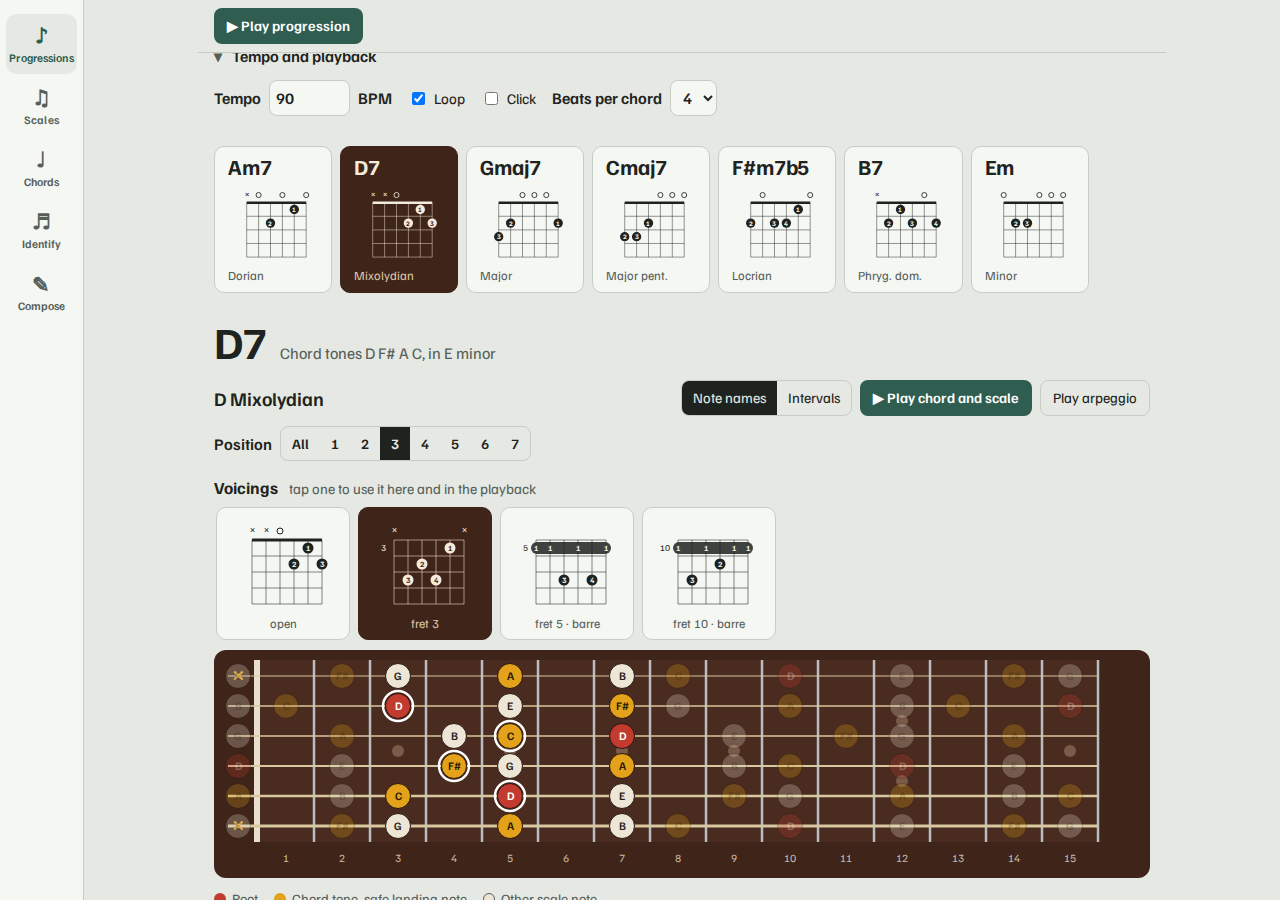
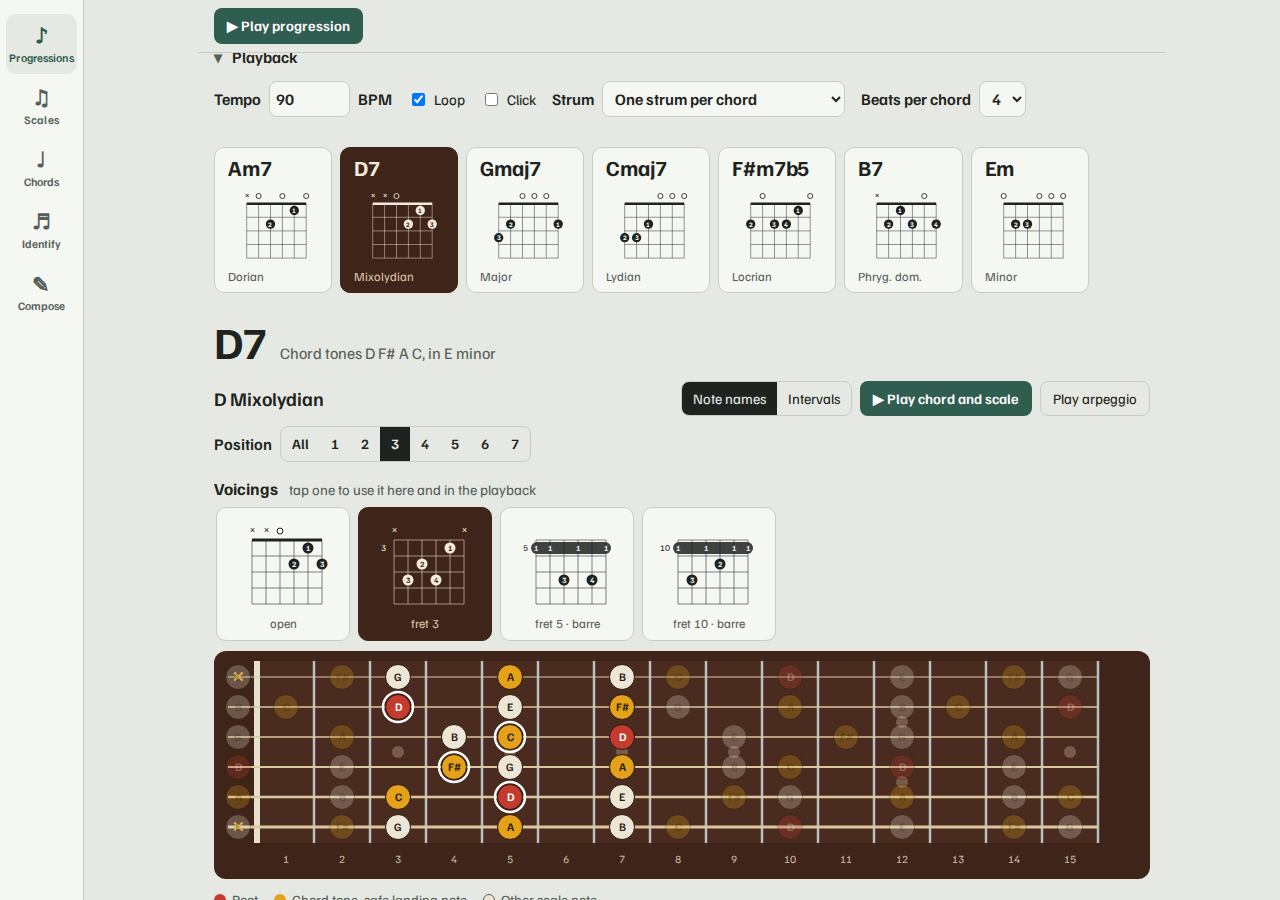
Compose: settings tray (Playback, Generator, Share), tab first, segmented short choices (2.5.0)

diff --git a/site/view-compose.js b/site/view-compose.js
@@ -2,8 +2,8 @@ import { esc, parseChord } from './music.js';
 import { getInstrument, getSetup, applySetup, onInstrumentChange } from './instrument.js';
 import { encodeTabLink, decodeTabLink } from './tab-share.js';
 import { tabOf } from './share.js';
-import { playbackFold, openWhereRoom, bindStrum } from './playback-ui.js';
-import { getStrum } from './strum-patterns.js';
+import { playbackControls, bindStrum, bindTray, segmentSelect } from './playback-ui.js';
+import { getStrum, strumById } from './strum-patterns.js';
 import { expandChart } from './chart.js';
 import { chordScales, scalesInKey, pickId } from './scalefit.js';
 import { loadVoicings, getVoicings, voicingDiagram, voicingLabel } from './voicings.js';
@@ -36,19 +36,21 @@ export function mount(root){
       <button type="button" class="share" id="tb-undo" aria-label="Undo"><span aria-hidden="true">\u21B6</span><span class="lbl"> Undo</span></button>
       <button type="button" class="share" id="tb-redo" aria-label="Redo"><span aria-hidden="true">\u21B7</span><span class="lbl"> Redo</span></button>
     </div>
-    <p class="status" id="tb-genmsg" role="status" aria-live="polite"></p>
-    <div class="sharebar" role="group" aria-label="Share and export">
-      <label class="keylab">Title <input id="tb-title" type="text" size="22" maxlength="80" autocomplete="off"></label>
-      <button type="button" class="share" id="tb-share" title="A link that opens this tab (notes, chords, settings and seed) for someone else">Copy link</button>
-      <button type="button" class="share" id="tb-pdf" title="Print the tab with its chord boxes - choose Save as PDF in the print dialog">Export PDF</button>
-      <button type="button" class="share" id="tb-copy" title="The tab as plain text, to paste into notes or a message">Copy as text</button>
+    <div class="traybar" role="group" aria-label="Settings">
+      <button type="button" class="traybtn" id="tb-t-play" aria-expanded="false" aria-controls="tb-p-play"><b>Playback</b><span id="tb-s-play"></span></button>
+      <button type="button" class="traybtn" id="tb-t-gen" aria-expanded="false" aria-controls="tb-p-gen"><b>Generator</b><span id="tb-s-gen"></span></button>
+      <button type="button" class="traybtn" id="tb-t-share" aria-expanded="false" aria-controls="tb-p-share"><b>Share</b><span>link, PDF, text</span></button>
       <span class="vometa" id="tb-msg" role="status" aria-live="polite"></span>
     </div>
-    ${playbackFold('tb', `<label class="chk"><input type="checkbox" id="tb-backing"> Play the bar chords</label>
+    <p class="status" id="tb-genmsg" role="status" aria-live="polite"></p>
+    <section class="tray" id="tb-p-play" aria-label="Playback" hidden>
+      ${playbackControls('tb', `<label class="chk"><input type="checkbox" id="tb-backing"> Play the bar chords</label>
         <label class="keylab" title="Plays straight eighths long-short. Notes written as triplets are not changed.">Swing <select id="tb-swing">${SWINGS.map(x => `<option value="${x.id}">${x.name}</option>`).join('')}</select></label>`)}
-    <details class="fold" id="tb-gen"><summary>Solo generator settings</summary>
+    </section>
+    <section class="tray" id="tb-p-gen" aria-label="Solo generator settings" hidden>
       <p class="hint">Name the chords in the tab (or load a progression), then press Generate above. It replaces the notes - Undo brings yours back.</p>
       <div class="row">
+        <label class="keylab" title="The key the solo is written in. Auto works it out from the chords; pick a key to set it yourself - and to load a progression in that key.">Key <select id="tb-key"></select></label>
         <label class="keylab">Load <select id="tb-prog" aria-label="Load a progression"></select></label>
         <label class="keylab" title="How many times to play the progression: Auto repeats it until there are at least 8 bars">Repeat <select id="tb-repeat"><option value="auto">Auto</option>${[1, 2, 3, 4, 6, 8].map(n => `<option value="${n}">\u00d7${n}</option>`).join('')}</select></label>
         <button type="button" class="share" id="tb-useprog">Load chords</button>
@@ -60,30 +62,37 @@ export function mount(root){
       <div class="row">
         <label class="keylab">Style <select id="tb-style">${STYLES.map(x => `<option value="${x.id}">${x.name}</option>`).join('')}</select></label>
         <label class="keylab">Density <select id="tb-density">${DENSITIES.map(x => `<option value="${x.id}">${x.name}</option>`).join('')}</select></label>
-        <label class="keylab" title="How the solo develops over the song: higher and busier towards a peak">Evolve <select id="tb-evolve">${EVOLVES.map(x => `<option value="${x.id}">${x.name}</option>`).join('')}</select></label>
-        <label class="keylab">Feel <select id="tb-feel">${FEELS.map(x => `<option value="${x.id}">${x.name}</option>`).join('')}</select></label>
-        <label class="keylab" title="How much the line leans on chord tones. Real jazz solos land on a chord tone on only about half of their strong beats; the textbook rule would be nearly all of them.">Chord tones <select id="tb-tension">${TENSIONS.map(x => `<option value="${x.id}">${x.name}</option>`).join('')}</select></label>
-        <label class="keylab" title="Hammer-ons, pull-offs, slides, bends and vibrato">Techniques <select id="tb-gentech"><option value="off">Off</option><option value="some">Some</option><option value="lots">Lots</option></select></label>
-        <label class="keylab" title="The key the solo is written in. Auto works it out from the chords; pick a key to set it yourself - and to load a progression in that key.">Key <select id="tb-key"></select></label>
-        <label class="keylab">Seed <input id="tb-seed" type="number" min="1" max="999999" step="1" inputmode="numeric"></label>
       </div>
+      <details class="fold" id="tb-more"><summary>More generator settings</summary>
+        <div class="row">
+          <label class="keylab" title="How the solo develops over the song: higher and busier towards a peak">Evolve <select id="tb-evolve">${EVOLVES.map(x => `<option value="${x.id}">${x.name}</option>`).join('')}</select></label>
+          <label class="keylab">Feel <select id="tb-feel">${FEELS.map(x => `<option value="${x.id}">${x.name}</option>`).join('')}</select></label>
+          <label class="keylab" title="How much the line leans on chord tones. Real jazz solos land on a chord tone on only about half of their strong beats; the textbook rule would be nearly all of them.">Chord tones <select id="tb-tension">${TENSIONS.map(x => `<option value="${x.id}">${x.name}</option>`).join('')}</select></label>
+          <label class="keylab" title="Hammer-ons, pull-offs, slides, bends and vibrato">Techniques <select id="tb-gentech"><option value="off">Off</option><option value="some">Some</option><option value="lots">Lots</option></select></label>
+          <label class="keylab">Seed <input id="tb-seed" type="number" min="1" max="999999" step="1" inputmode="numeric"></label>
+        </div>
+        <div class="row">
+          <label class="chk"><input type="checkbox" id="tb-autoplay"> Play it straight after generating</label>
+        </div>
+      </details>
+    </section>
+    <section class="tray" id="tb-p-share" aria-label="Share and export" hidden>
       <div class="row">
-        <label class="chk"><input type="checkbox" id="tb-autoplay"> Play it straight after generating</label>
+        <label class="keylab">Title <input id="tb-title" type="text" size="22" maxlength="80" autocomplete="off"></label>
+        <button type="button" class="share" id="tb-share" title="A link that opens this tab (notes, chords, settings and seed) for someone else">Copy link</button>
+        <button type="button" class="share" id="tb-pdf" title="Print the tab with its chord boxes - choose Save as PDF in the print dialog">Export PDF</button>
+        <button type="button" class="share" id="tb-copy" title="The tab as plain text, to paste into notes or a message">Copy as text</button>
       </div>
-    </details>
+    </section>
 
-    <div class="row">
+    <div class="edittools" role="group" aria-label="Editing">
       <label class="keylab">Length <div class="seg" id="tb-len" role="group" aria-label="Note length">${LENGTH_NAMES.map((n, i) => `<button type="button" data-len="${i}" aria-pressed="false">${n}</button>`).join('')}</div></label>
       <label class="chk" title="Three in the time of two (1/16, 1/8, 1/4 and 1/2 notes)"><input type="checkbox" id="tb-trip"> Triplet</label>
-    </div>
-    <div class="row">
       <label class="keylab">Technique <div class="seg" id="tb-tech" role="group" aria-label="Technique of the note at the cursor">
         <button type="button" data-tech="h" aria-pressed="false" title="Hammer-on or pull-off into the next note on this string (h)">Hammer / pull</button>
         <button type="button" data-tech="s" aria-pressed="false" title="Slide into the next note on this string (s)">Slide</button>
         <button type="button" data-tech="b" aria-pressed="false" title="Bend up: tap again for a bigger bend (b)">Bend</button>
         <button type="button" data-tech="v" aria-pressed="false" title="Vibrato (v)">Vibrato</button></div></label>
-    </div>
-    <div class="row">
       <label class="keylab">Chord at bar <span id="tb-barno">1</span>, beat <span id="tb-beat">1</span> <input id="tb-chord" type="text" size="7" maxlength="16" autocomplete="off" autocapitalize="off" spellcheck="false" placeholder="Am7"></label>
       <button type="button" class="share" id="tb-addbar">Add bar</button>
       <button type="button" class="share" id="tb-delbar">Delete bar</button>
@@ -245,6 +254,7 @@ export function mount(root){
     undoBtn.disabled = !hist.canUndo; redoBtn.disabled = !hist.canRedo;
     lenSeg.querySelectorAll('button').forEach(b => b.setAttribute('aria-pressed', String(+b.dataset.len === opts.unit)));
     if (document.activeElement !== bpmIn) bpmIn.value = String(tab().bpm);
+    updateSummaries();
     if (document.activeElement !== titleIn) titleIn.value = tab().title;
     barNo.textContent = String(cursor.bar + 1);
     $('#tb-beat').textContent = String(Math.round((1 + cursor.at / BEAT) * 100) / 100);
@@ -466,8 +476,8 @@ export function mount(root){
   bindStrum(root, 'tb');
   backingCb.checked = opts.backing; metroCb.checked = opts.metro; loopCb.checked = opts.loop;
   backingCb.onchange = () => { opts.backing = backingCb.checked; persist(); };
-  metroCb.onchange = () => { opts.metro = metroCb.checked; persist(); };
-  loopCb.onchange = () => { opts.loop = loopCb.checked; persist(); };
+  metroCb.onchange = () => { opts.metro = metroCb.checked; persist(); updateSummaries(); };
+  loopCb.onchange = () => { opts.loop = loopCb.checked; persist(); updateSummaries(); };
   // --- solo generator ---
   const progSel = $('#tb-prog'), styleSel = $('#tb-style'), densSel = $('#tb-density'), keySel = $('#tb-key'), seedIn = $('#tb-seed'), genMsg = $('#tb-genmsg');
   progSel.innerHTML = libraryOptions(esc);
@@ -475,7 +485,7 @@ export function mount(root){
   for (const mode of /** @type {('major'|'minor')[]} */ (['major', 'minor'])) for (let t = 0; t < 12; t++) keyHtml += `<option value="${t}:${mode}">${esc(keyName({ t, mode }))}</option>`;
   keySel.innerHTML = `<option value="auto">Auto (from the chords)</option>${keyHtml}`;
   const feelSel = $('#tb-feel'), swingSel = $('#tb-swing');
-  const evSel = $('#tb-evolve'); evSel.value = opts.evolve; evSel.onchange = () => { opts.evolve = evSel.value; persist(); };
+  const evSel = $('#tb-evolve'); evSel.value = opts.evolve; evSel.onchange = () => { opts.evolve = evSel.value; persist(); updateSummaries(); };
   const tnSel = $('#tb-tension'); tnSel.value = opts.tension; tnSel.onchange = () => { opts.tension = tnSel.value; persist(); };
   const gtSel = $('#tb-gentech'); gtSel.value = opts.tech; gtSel.onchange = () => { opts.tech = gtSel.value; persist(); };
   feelSel.value = opts.feel; swingSel.value = opts.swing;
@@ -483,7 +493,7 @@ export function mount(root){
   swingSel.onchange = () => { opts.swing = swingSel.value; persist(); };
   styleSel.value = opts.style; densSel.value = opts.density; keySel.value = opts.key; seedIn.value = String(opts.seed);
   styleSel.onchange = () => { opts.style = styleSel.value; persist(); render(); };
-  densSel.onchange = () => { opts.density = densSel.value; persist(); };
+  densSel.onchange = () => { opts.density = densSel.value; persist(); updateSummaries(); };
   keySel.onchange = () => { opts.key = keySel.value; persist(); render(); };
   seedIn.onchange = () => { const v = Math.round(+seedIn.value); opts.seed = v >= 1 && v <= 999999 ? v : opts.seed; seedIn.value = String(opts.seed); persist(); };
   const templateBarCount = tpl => templateBars(tpl).length;
@@ -532,8 +542,19 @@ export function mount(root){
   }
   $('#tb-gen-go').onclick = generate;
   $('#tb-gen-new').onclick = () => { opts.seed = 1 + Math.floor(Math.random() * 999999); seedIn.value = String(opts.seed); persist(); generate(); };
-  $('#tb-gen').open = matchMedia('(min-width:760px)').matches;
-  openWhereRoom($('#tb-opts'));
+  // The settings tray: panels closed until wanted, each button saying what is set; short choices as buttons
+  bindTray(root, 'fw-tray-compose', [{ button: '#tb-t-play', panel: '#tb-p-play' }, { button: '#tb-t-gen', panel: '#tb-p-gen' }, { button: '#tb-t-share', panel: '#tb-p-share' }]);
+  for (const id of ['#tb-swing', '#tb-density', '#tb-tension', '#tb-gentech']) segmentSelect(/** @type {HTMLSelectElement} */ ($(id)));
+  const more = /** @type {HTMLDetailsElement} */ ($('#tb-more'));
+  try { more.open = localStorage.getItem('fw-tray-more') === '1'; } catch (e) { /* closed */ }
+  more.addEventListener('toggle', () => { try { localStorage.setItem('fw-tray-more', more.open ? '1' : '0'); } catch (e) { /* storage unavailable */ } });
+  $('#tb-strum').addEventListener('change', updateSummaries);
+  function updateSummaries() {
+    const name = (/** @type {{id:string, name:string}[]} */ list, /** @type {string} */ id) => list.find(x => x.id === id)?.name ?? id;
+    $('#tb-s-play').textContent = [`${tab().bpm} BPM`, opts.loop ? 'Loop' : '', opts.metro ? 'Click' : '', getStrum() === 'single' ? '' : strumById(getStrum()).name.replace(/ \(.*/, '')].filter(Boolean).join(' \u00b7 ');
+    $('#tb-s-gen').textContent = [name(STYLES, opts.style), name(DENSITIES, opts.density), name(EVOLVES, opts.evolve)].join(' \u00b7 ');
+  }
+  updateSummaries();
 
   root.addEventListener('fw-shown', () => { planSig = ''; render(); });
   let resizeTimer = /** @type {any} */ (0);

diff --git a/site/playback-ui.js b/site/playback-ui.js
@@ -1,22 +1,32 @@
 import { STRUMS, getStrum, setStrum } from './strum-patterns.js';
-// The "Tempo and playback" controls shared by the pages that play things (Progressions, Compose), so they look and
+// The "Playback" controls shared by the pages that play things (Progressions, Compose), so they look and
 // read the same everywhere: the same fold, the same first three controls in the same order (Tempo, Loop, Click),
 // then anything specific to the page. Element ids are `<prefix>-bpm`, `<prefix>-loop`, `<prefix>-metro`.
 
 /**
+ * The controls themselves, without a fold around them.
  * @param {string} prefix id prefix of the page ("pr", "tb")
- * @param {string} [extras] HTML for the page's own controls, shown after Click
+ * @param {string} [extras] HTML for the page's own controls, shown after Strum
  * @returns {string}
  */
-export function playbackFold(prefix, extras = '') {
-  return `<details class="fold" id="${prefix}-opts"><summary>Tempo and playback</summary>
-      <div class="transport">
+export function playbackControls(prefix, extras = '') {
+  return `<div class="transport">
         <label class="keylab">Tempo <input id="${prefix}-bpm" type="number" min="40" max="220" step="1" inputmode="numeric"> BPM</label>
         <label class="chk"><input type="checkbox" id="${prefix}-loop"> Loop</label>
         <label class="chk"><input type="checkbox" id="${prefix}-metro"> Click</label>
         <label class="keylab">Strum <select id="${prefix}-strum" title="How the backing chords are played">${STRUMS.map(x => `<option value="${x.id}">${x.name}</option>`).join('')}</select></label>
         ${extras}
-      </div>
+      </div>`;
+}
+
+/**
+ * @param {string} prefix id prefix of the page ("pr", "tb")
+ * @param {string} [extras] HTML for the page's own controls, shown after Strum
+ * @returns {string}
+ */
+export function playbackFold(prefix, extras = '') {
+  return `<details class="fold" id="${prefix}-opts"><summary>Playback</summary>
+      ${playbackControls(prefix, extras)}
     </details>`;
 }
 
@@ -28,4 +38,50 @@ export function bindStrum(root, prefix) {
   const sel = /** @type {HTMLSelectElement} */ (root.querySelector(`#${prefix}-strum`));
   sel.value = getStrum();
   sel.onchange = () => setStrum(sel.value);
+}
+
+/**
+ * Panels that open from a row of buttons (a settings tray): each button shows a one-line summary of what is set, toggles its own panel
+ * (aria-expanded), and the panels that were left open are remembered. Escape inside a panel closes it and returns to its button.
+ * @param {ParentNode} root @param {string} storeKey @param {{button:string, panel:string}[]} items selectors
+ * @returns {{open:(i:number, on:boolean) => void}}
+ */
+export function bindTray(root, storeKey, items) {
+  /** @type {any[]} */
+  let saved = [];
+  try { saved = JSON.parse(localStorage.getItem(storeKey) || '[]'); } catch (e) { /* none */ }
+  const pairs = items.map(it => ({ btn: /** @type {HTMLButtonElement} */ (root.querySelector(it.button)), panel: /** @type {HTMLElement} */ (root.querySelector(it.panel)) }));
+  const open = (/** @type {number} */ i, /** @type {boolean} */ on) => {
+    pairs[i].panel.hidden = !on; pairs[i].btn.setAttribute('aria-expanded', String(on));
+    try { localStorage.setItem(storeKey, JSON.stringify(pairs.map(p => !p.panel.hidden))); } catch (e) { /* storage unavailable */ }
+  };
+  pairs.forEach((p, i) => {
+    open(i, saved[i] === true);
+    p.btn.onclick = () => open(i, !!p.panel.hidden);
+    p.panel.addEventListener('keydown', e => { if (e.key === 'Escape') { open(i, false); p.btn.focus(); } });
+  });
+  return { open };
+}
+
+/**
+ * Show a short <select> as a row of buttons, one per option. The select stays in the page (hidden from sight and from assistive technology) as
+ * the one source of truth: setting its value from code, or choosing through it, updates the buttons.
+ * @param {HTMLSelectElement} sel
+ */
+export function segmentSelect(sel) {
+  const group = document.createElement('div');
+  group.className = 'seg'; group.setAttribute('role', 'group');
+  group.setAttribute('aria-label', sel.closest('label')?.textContent?.replace(sel.textContent || '', '').trim() || sel.getAttribute('aria-label') || sel.id);
+  const buttons = [...sel.options].map(o => {
+    const b = document.createElement('button');
+    b.type = 'button'; b.textContent = o.textContent; b.dataset.value = o.value;
+    b.onclick = () => { if (sel.value !== o.value) { sel.value = o.value; sel.dispatchEvent(new Event('change', { bubbles: true })); } };
+    group.append(b); return b;
+  });
+  const sync = () => buttons.forEach(b => b.setAttribute('aria-pressed', String(b.dataset.value === sel.value)));
+  const own = /** @type {PropertyDescriptor} */ (Object.getOwnPropertyDescriptor(HTMLSelectElement.prototype, 'value'));
+  Object.defineProperty(sel, 'value', { get() { return own.get?.call(sel); }, set(v) { own.set?.call(sel, v); sync(); } });
+  sel.addEventListener('change', sync);
+  sel.classList.add('sr-only'); sel.tabIndex = -1; sel.setAttribute('aria-hidden', 'true');
+  sel.after(group); sync();
 }

diff --git a/site/styles.css b/site/styles.css
@@ -173,6 +173,25 @@ h3{font-size:1.05rem;margin:30px 0 6px}
 [hidden]{display:none!important}
 
 /* ---- Tab editor ---- */
+.sr-only{position:absolute;width:1px;height:1px;margin:-1px;padding:0;overflow:hidden;clip:rect(0 0 0 0);white-space:nowrap;border:0}
+/* Settings tray: a row of buttons that each say what is set and open their own panel */
+.traybar{display:flex;flex-wrap:wrap;align-items:center;gap:8px;margin:8px 0 4px}
+.traybtn{font:inherit;display:inline-flex;flex-direction:column;align-items:flex-start;gap:1px;text-align:left;cursor:pointer;color:var(--ink);
+  background:var(--panel);border:1.5px solid var(--line);border-radius:10px;padding:6px 12px;min-width:0;max-width:100%}
+.traybtn b{font-size:.95rem}
+.traybtn b::after{content:"\25BE";margin-left:.4em;color:var(--muted)}
+.traybtn[aria-expanded="true"] b::after{content:"\25B4"}
+.traybtn span{font-size:.78rem;color:var(--muted);overflow:hidden;text-overflow:ellipsis;white-space:nowrap;max-width:100%}
+.traybtn:hover,.traybtn[aria-expanded="true"]{border-color:var(--accent)}
+.tray{background:var(--panel);border:1px solid var(--line);border-radius:12px;padding:4px 14px 14px;margin:6px 0 10px}
+.tray[hidden]{display:none}
+.tray .transport{margin:8px 0 0}
+.tray .fold{margin:10px 0 0}
+.tray .hint{margin:8px 0 0}
+.edittools{display:flex;flex-wrap:wrap;gap:8px 16px;align-items:center;margin:10px 0 6px}
+.edittools .keylab{flex-wrap:wrap}
+.edittools .seg{max-width:100%;overflow-x:auto}
+@media (max-width:520px){ .traybtn{flex:1 1 0;padding:6px 9px} .traybtn span{font-size:.72rem} }
 .sharebar{display:flex;flex-wrap:wrap;align-items:center;gap:8px 14px;margin:6px 0 4px}
 .status{margin:2px 0 4px;color:var(--muted);font-size:.9rem}
 .status:empty{display:none}

diff --git a/site/view-progressions.js b/site/view-progressions.js
@@ -70,7 +70,7 @@ export function mount(root){
   function save(){try{localStorage.setItem(STORE_KEY,JSON.stringify({text:state.text,key:state.key,labels:state.labels,pos:state.pos,vo:state.vo,bpm:state.bpm,beats:state.beats,loop:state.loop,metro:state.metro}));}catch(e){} syncUrl();}
 
   prog.value=state.text;
-  // Tempo and playback options start folded on phones, open where there is room.
+  // Playback options start folded on phones, open where there is room.
   openWhereRoom(root.querySelector('#pr-opts'));
 
   // One menu of progressions (common ones, blues, jazz, classics). They are written as degrees and played in the key chosen in the Key

diff --git a/CHANGELOG.md b/CHANGELOG.md
@@ -1,5 +1,17 @@
 # Changelog
 
+## 2.5.0 - 2026-10-18
+
+### Changed
+- **Compose is decluttered.** The tab used to start below eleven rows of controls; now the top is Play, Generate, Another, Undo and Redo, then a row of three
+  settings buttons - **Playback**, **Generator** and **Share** - each saying what is set ("90 BPM · Loop", "Follow the chords · Medium · Gentle arc"),
+  then the editing tools and the tab. The panels start closed, can be open together, and remember what you left open; Escape closes one.
+- The generator panel shows Key, Load (with Repeat), the chart box, Style and Density; Evolve, Feel, Chord tones, Techniques, Seed and "Play it straight
+  after generating" are under "More generator settings". Title, Copy link, Export PDF and Copy as text moved into Share.
+- Short choices (Density, Chord tones, Techniques, Swing) are rows of buttons instead of dropdowns; the dropdown stays underneath as the single source of
+  truth. The playback settings are called "Playback" on both Compose and Progressions. The phone layout no longer scrolls sideways at the Length row.
+- README screenshots regenerated.
+
 ## 2.4.1 - 2026-10-18
 
 ### Changed
